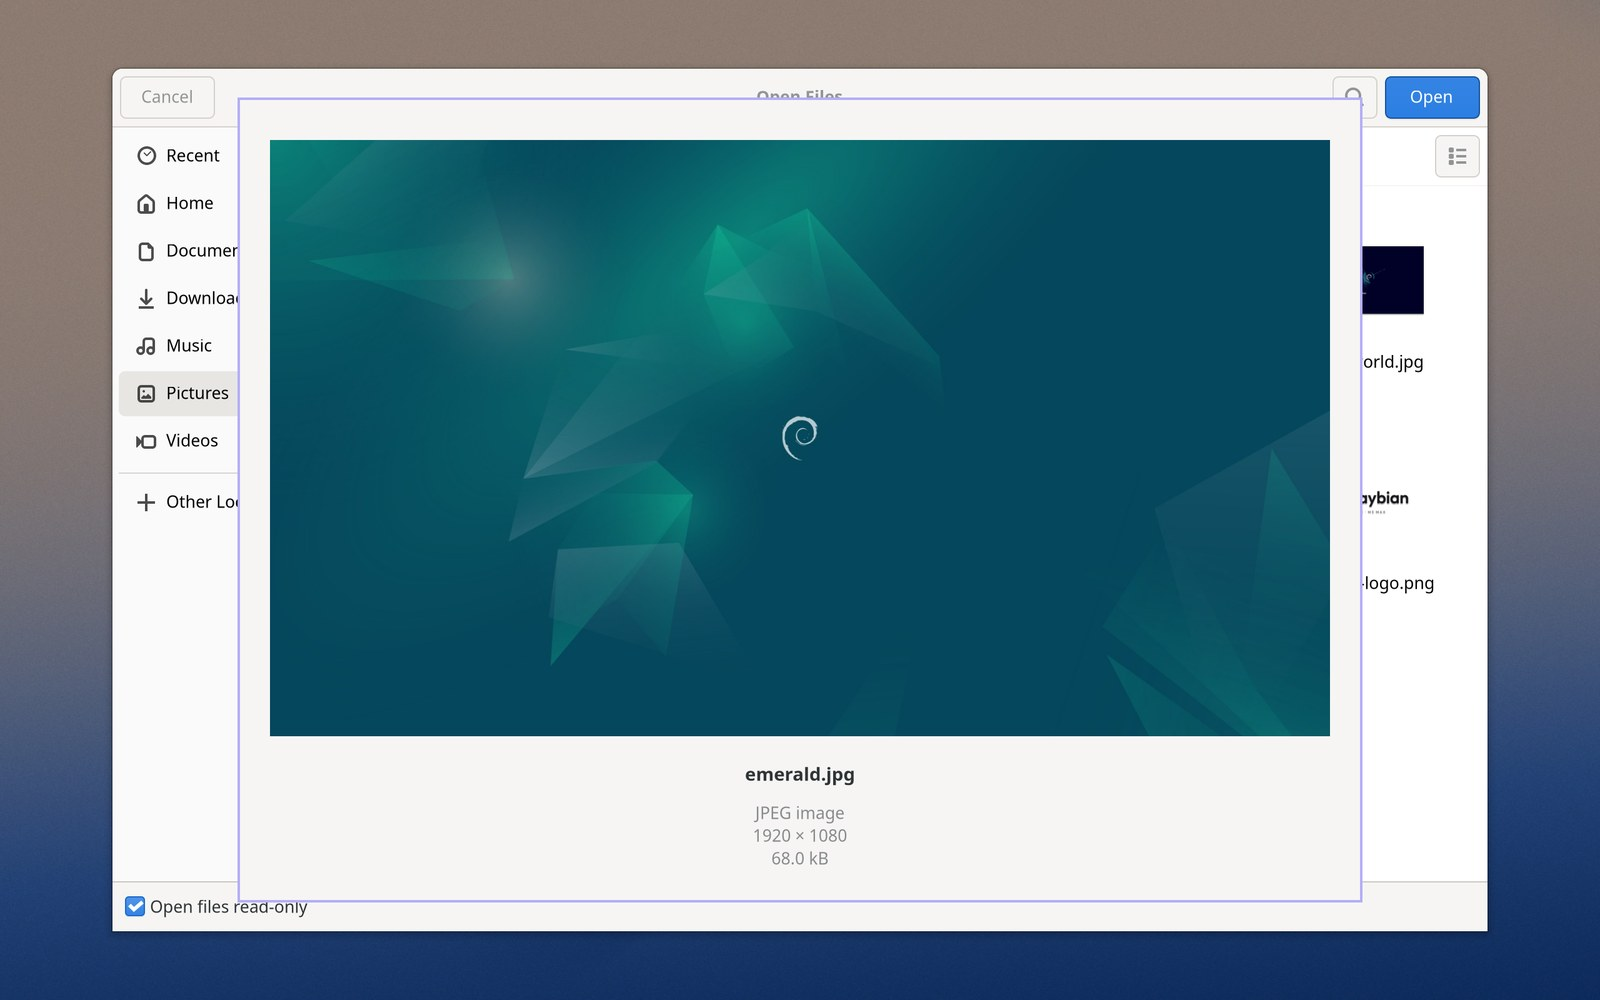
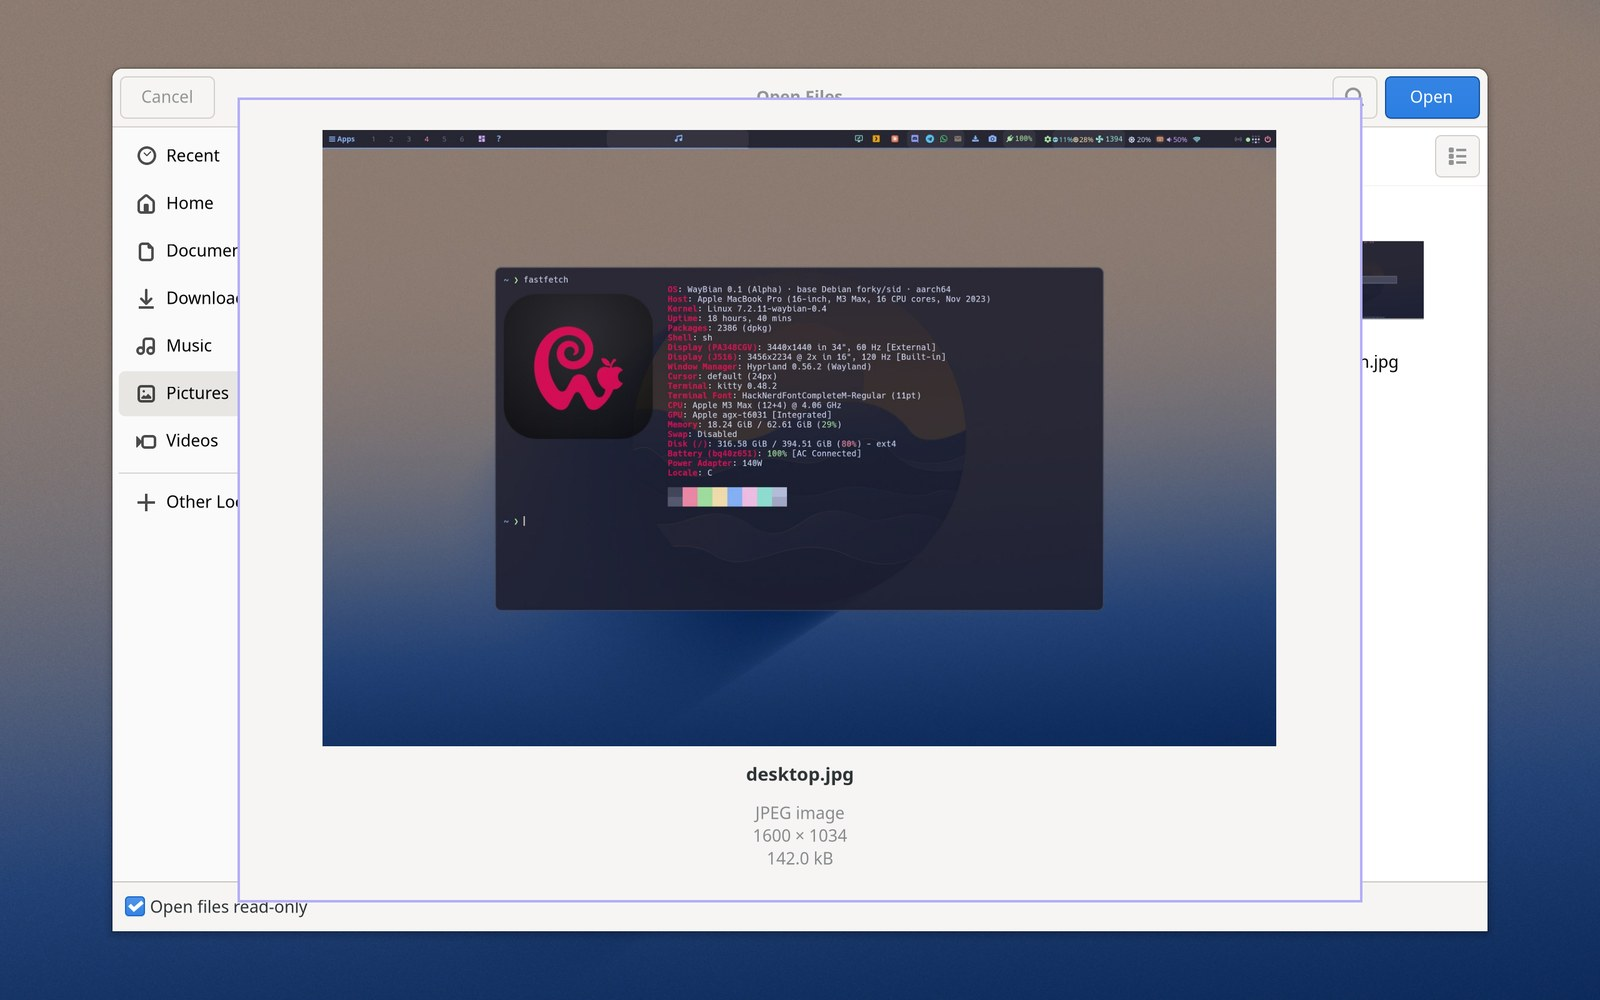
README: still images instead of the GIF, with WayBian screenshots as samples
The grid and Quick Look as still images, plus Quick Look on a portrait
image; the sample folder is now made of screenshots of WayBian itself,
whose very different shapes also show the thumbnail fix.

Claude-Session: https://claude.ai/code/session_013Fj1pH1E6FTTQuV8fXeAkd

diff --git a/README.md b/README.md
@@ -25,7 +25,9 @@ dialog, like the one in the macOS Finder. With the focus in the file list:
 Space still types a space in the search and location entries. Save and folder dialogs are unchanged.
 
 <p align="center">
-  <img src="static/quick-look.gif" alt="Quick Look: space opens the image, the arrows move through the files, space closes it" width="800">
+  <img src="static/grid.jpg" alt="An open dialog in grid view, with thumbnails in their true proportions" width="400">
+  <img src="static/quick-look.jpg" alt="Quick Look over the open dialog, showing a desktop screenshot" width="400"><br>
+  <sub>An open dialog in grid view, and Quick Look after pressing space. The sample files are screenshots of WayBian itself.</sub>
 </p>
 
 How it works: GTK 4 removed the file chooser's preview widget, and GtkFileChooser has no selection signal, so
@@ -42,7 +44,8 @@ The commits on top of upstream (`2372e15`) live in this branch, which is built a
 Hyprland on a MacBook Pro M3 Max). To try it, build and install as below from this branch.
 
 <p align="center">
-  <img src="static/quick-look.jpg" alt="Quick Look over an open dialog" width="800">
+  <img src="static/quick-look-portrait.jpg" alt="Quick Look with a portrait image fitted in the same window" width="800"><br>
+  <sub>A portrait image in the same fixed-size window, three files further with the arrow keys.</sub>
 </p>
 
 ### A note on thumbnails
